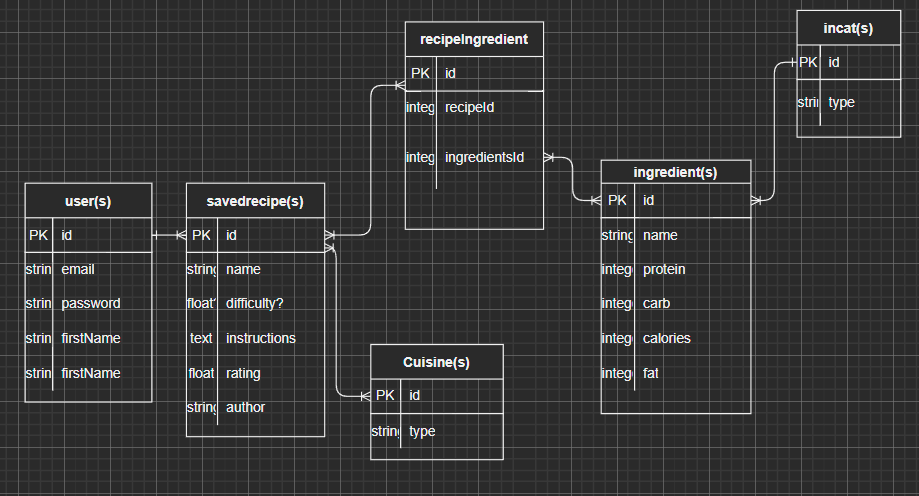
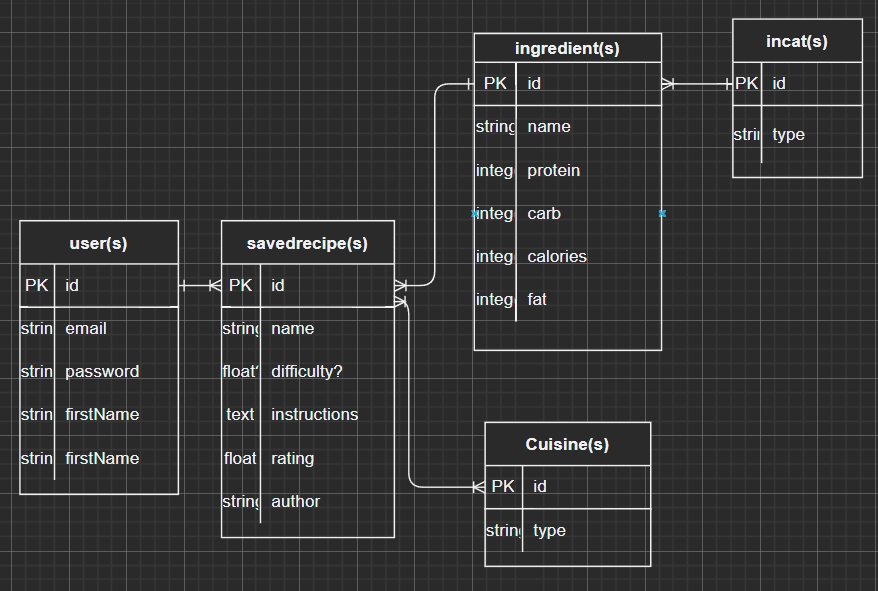
updated MVP ERD and Readme.md

diff --git a/README.md b/README.md
@@ -76,9 +76,9 @@ Planned RESTful Routes:
 | GET | /recipes/saved |\(Read\) | Search and show saved recipes |
 | GET | /recipes/view |\(Read\) | show recipe details |
 
-## Planned User Process Map:
+## Planned MVP User Process Map:
 ![Planned Process Map](./Planning/planningMVP-UserProcessMap.PNG)
 
-## Table Relations:
+## Planned MVP ERD:
 ![ERD](./Planning/planningMVP-ERD.PNG)
 
